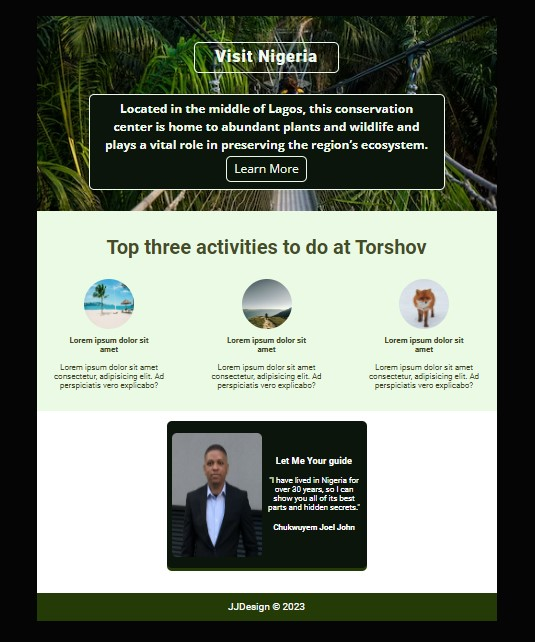
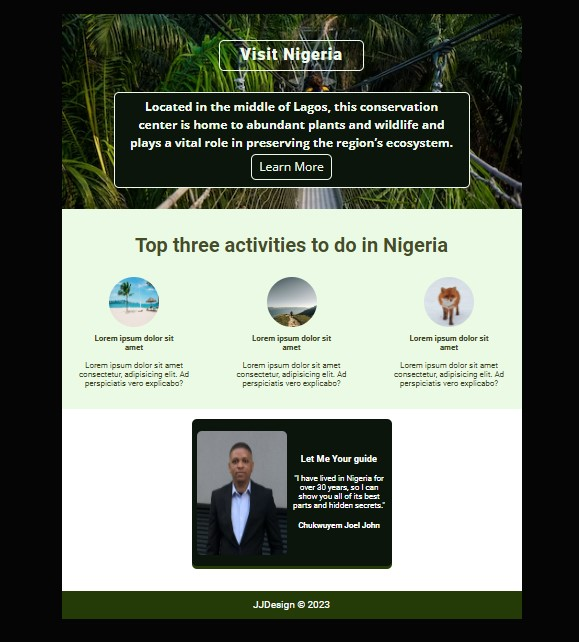
initial commit

Changed region(s): [[0.0598, 0.0, 0.9271, 0.9657], [0.2991, 0.6542, 0.6879, 0.9657], [0.3888, 0.4361, 0.5981, 0.6231]]

diff --git a/co8ef420d80a8710354638e55/styles.css b/co8ef420d80a8710354638e55/styles.css
@@ -27,7 +27,7 @@ body {
 }
 /*  HERO SECTION  */
 .hero{
-    background-image: url('https://images.unsplash.com/photo-1578532570381-266569761d1d?ixlib=rb-4.0.3&ixid=MnwxMjA3fDB8MHxzZWFyY2h8MXx8TGVra2klMjBDb25zZXJ2YXRpb258ZW58MHx8MHx8&auto=format&fit=crop&w=500&q=60') #082900;
+    background-image: url('https://images.unsplash.com/photo-1578532570381-266569761d1d?ixlib=rb-4.0.3&ixid=MnwxMjA3fDB8MHxzZWFyY2h8MXx8TGVra2klMjBDb25zZXJ2YXRpb258ZW58MHx8MHx8&auto=format&fit=crop&w=500&q=60');
     background-size: cover;
     background-position:center  ;
     background-repeat: no-repeat;

diff --git a/co8ef420d80a8710354638e55/index.html b/co8ef420d80a8710354638e55/index.html
@@ -22,7 +22,7 @@
         
         <!-- ACTIVITIES SECTION -->
         <div class="activities--section">
-            <h3 class="activities--title" >Top three activities to do at Torshov</h3>
+            <h3 class="activities--title" >Top three activities to do in Nigeria</h3>
             <div class="activities--description">
                  <div >
                 <img src="images/beach.jpg">

diff --git a/co8ef420d80a8710354638e55/README.md b/co8ef420d80a8710354638e55/README.md
@@ -2,6 +2,7 @@
 Readme
 
 This is a website for showcasing the attractions and activities in a fictional hometown. The website is built using HTML and CSS.
+
 Features
 
     Hero section with a background image and a call-to-action button
